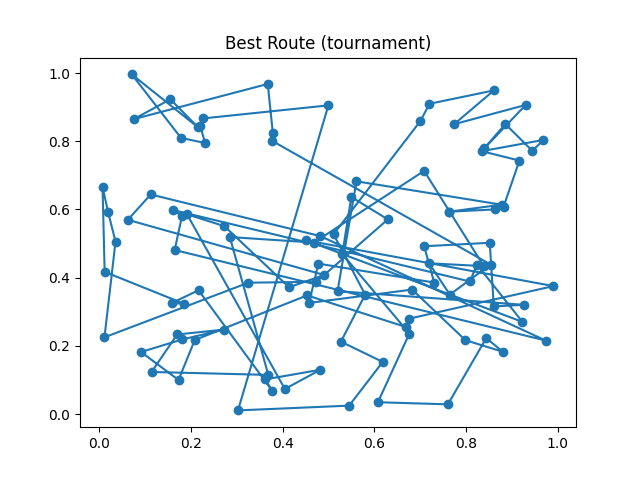
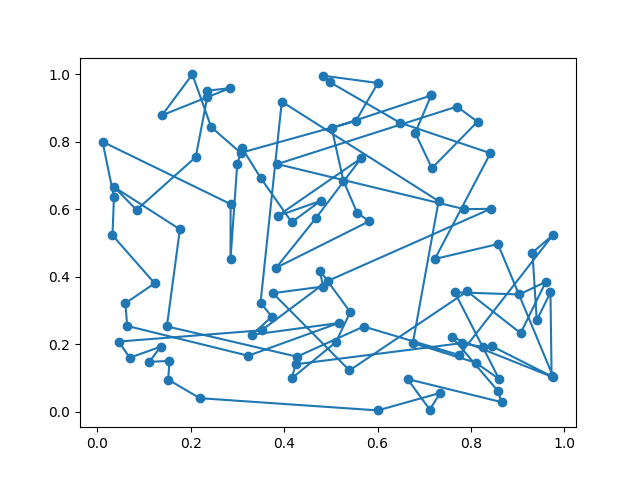
Add files via upload

diff --git a/exp_1.py b/exp_1.py
@@ -112,7 +112,6 @@ def plot_fitness(histories, output_dir):
     plt.xlabel('Generations')
     plt.ylabel('Fitness')
     plt.legend()
-    plt.title('Fitness over Generations')
     plt.savefig(os.path.join(output_dir, 'fitness_comparison.png'))
     plt.show()
 
@@ -121,7 +120,6 @@ def plot_route(cities, individual, title, output_dir):
     y = [cities[i][1] for i in individual] + [cities[individual[0]][1]]
     plt.figure()
     plt.plot(x, y, marker='o')
-    plt.title(title)
     plt.savefig(os.path.join(output_dir, f"{title.replace(' ', '_').lower()}.png"))
     plt.show()
 

diff --git a/exp_2.py b/exp_2.py
@@ -119,7 +119,6 @@ def plot_fitness(histories, output_dir):
     plt.xlabel('Generations')
     plt.ylabel('Fitness')
     plt.legend()
-    plt.title('Fitness over Generations')
     plt.savefig(os.path.join(output_dir, 'fitness_comparison.png'))
     plt.show()
 
@@ -128,7 +127,6 @@ def plot_route(cities, individual, title, output_dir):
     y = [cities[i][1] for i in individual] + [cities[individual[0]][1]]
     plt.figure()
     plt.plot(x, y, marker='o')
-    plt.title(title)
     plt.savefig(os.path.join(output_dir, f"{title.replace(' ', '_').lower()}.png"))
     plt.show()
 
